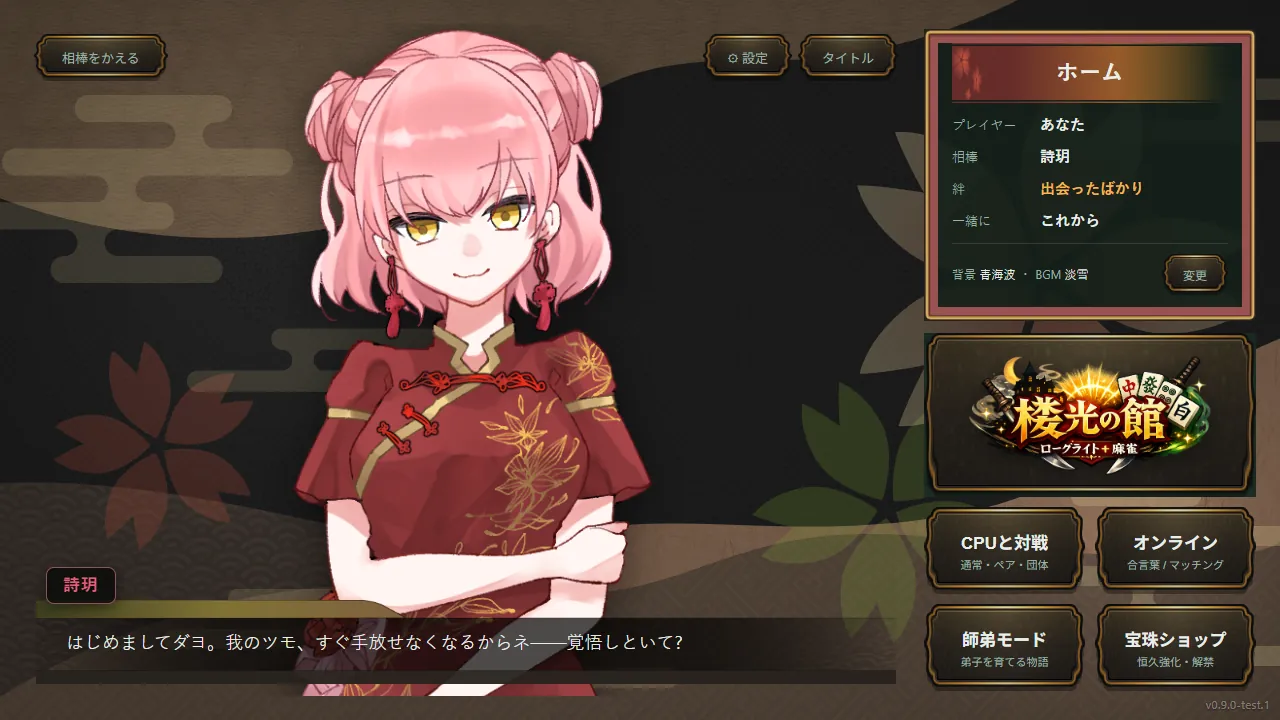
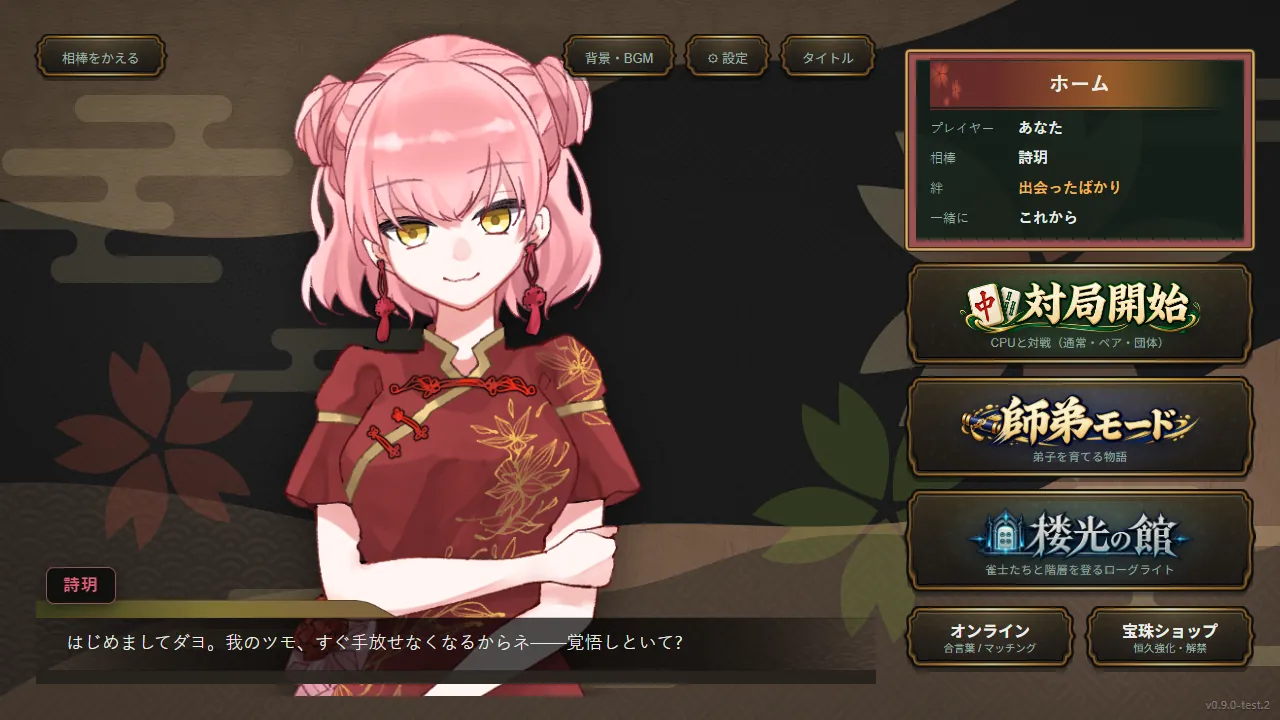
feat(outgame): ホームの遊びの入口を同列に—対局開始・師弟モード・楼光の館を同じ大きさのロゴで並べた
楼光の館だけが大きなロゴで、CPU対戦と師弟モードは2×2の文字ボタンだった。遊びの入口3つを
同じ金縁・同じ大きさの3枚にそろえ、どれが主でも従でもない並びにした。

ホーム（右カラム）
- 対局開始（＝CPUと対戦）→ 師弟モード → 楼光の館 の3枚を縦に。違いはロゴと背後の灯りの色
  （卓の緑・巻物の藍・館の青白）だけ。各ロゴの下に一行説明（「CPUと対戦（通常・ペア・団体）」など）
- オンラインと宝珠ショップは一段小さく下に横並び
- 背景・BGM の切替は情報カードから立ち絵ステージ右上（設定・タイトルの隣）へ。いまの組み合わせは
  ボタンのツールチップに。カードはプレイヤー・相棒・絆・一緒に（＋連勝中）だけになった
- 右カラムを 332→352px に。いちばん情報が多い状態（ログイン・絆ゲージ・連勝中）でも 720px に収まる
- ロゴが読めないときは文字の見出しに戻る（3枚の大きさはそろったまま）。見出しの文字は読み上げ用に残す
- 楼光の館のロゴを差し替え。旧 graphic/ui/roguelite/rokou-logo.png と、使われなくなった
  .menu-btn--logo / .menu-btn-tip / カード内の背景・BGM 行のスタイルを削除。テンプレートの余分な </div> も除去

ロゴ（graphic/ui/modes/、透過・幅960px）は仮素材（AI生成など）。本リリース前の差し替え一覧
（docs/release-blocking-asset-tbd.md）・CREDITS・権利チェックリストに記載し、既知の制限
（ゲーム内の窓口・募集ページ・テストプレイのご案内）にも書き足した。

募集ページ
- 遊びかたの3枚に同じロゴ（press/art/logo-*.webp）。写真の拡大クリックはロゴの上からも通す
- ホームの写真を新しいレイアウトで撮り直し、alt を更新。参加のしかたの「CPUと対戦」を「対局開始」に
- 版数を v0.9.0-test.3 に（appInfo.js の運用どおり）。更新内容に1行追加

確認：各入口・背景BGM・設定・タイトルの遷移（オンラインは従来どおりログイン案内）、ロゴ欠落時の
フォールバック、テスト版の窓口が1画面に収まること、募集ページの 1440px/390px。コンソールエラーなし。

Changed region(s): [[0.2188, 0.0306, 1.0, 0.9778], [0.4375, 0.9472, 0.4688, 0.9778]]

diff --git a/playtest.html b/playtest.html
@@ -255,7 +255,7 @@ img[data-zoom]{ cursor:zoom-in; }
 .mode{ position:relative; display:flex; flex-direction:column; padding:0 0 16px; }
 .mode-shot{ position:relative; aspect-ratio:16/9; overflow:hidden; background:#000; border-bottom:1px solid rgba(212,173,98,.4); }
 .mode-shot img{ width:100%; height:100%; object-fit:cover; }
-.mode-shot .rokou{ position:absolute; right:4%; bottom:6%; width:42%; height:auto; filter:drop-shadow(0 6px 12px #000c); }
+.mode-shot .logo{ position:absolute; right:4%; bottom:6%; width:48%; height:auto; filter:drop-shadow(0 6px 12px #000c); pointer-events:none; }  /* ホームと同じモードのロゴ。写真の拡大クリックは通す */
 .mode h3{ margin:14px 18px 4px; font-family:var(--serif); font-weight:700; font-size:21px; color:#f8ebcf; }
 .mode p{ margin:0 18px; font-size:14.5px; line-height:1.95; color:var(--ink-2); }
 .mode .time{ margin:auto 18px 0; padding-top:12px; font-size:12.5px; color:var(--gold-2); }
@@ -559,7 +559,7 @@ img[data-zoom]{ cursor:zoom-in; }
 </div>
 <div class="k-msg is-still" data-bond-msg><span class="name">詩玥</span><p class="text">さーて、今日も派手にツモってくヨ。ついてきて、ネ？</p><img class="new" src="graphic/ui/sc/new_icon.png" width="32" height="34" alt="この段階から聞ける言葉" hidden /></div>
 <ul class="moments">
-<li><figure style="margin:0"><div class="screen"><img src="press/shot-home.webp" width="1280" height="720" loading="lazy" data-zoom alt="ホームの画面。相棒の詩玥が大きく立ち、「はじめましてダヨ。我のツモ、すぐ手放せなくなるからネ——覚悟しといて?」と話しかけている" /></div><figcaption>ホームで出迎える</figcaption></figure></li>
+<li><figure style="margin:0"><div class="screen"><img src="press/shot-home.webp" width="1280" height="720" loading="lazy" data-zoom alt="ホームの画面。相棒の詩玥が大きく立ち、「はじめましてダヨ。我のツモ、すぐ手放せなくなるからネ——覚悟しといて?」と話しかけている。右には対局開始・師弟モード・楼光の館の入口が同じ大きさで並び、その下にオンラインと宝珠ショップ" /></div><figcaption>ホームで出迎える</figcaption></figure></li>
 <li><figure style="margin:0"><div class="screen"><img src="press/shot-end.webp" width="1280" height="720" loading="lazy" data-zoom alt="対局終了の画面。1位の詩玥が「やった、一番乗りダヨ! ……この景色、いつか見せたかったンだ。」とひと言添えている" /></div><figcaption>対局のあとのひと言</figcaption></figure></li>
 <li><figure style="margin:0"><div class="screen"><img src="press/shot-scenario.webp" width="1280" height="720" loading="lazy" data-zoom alt="紙芝居パートの画面。和室を背景に二人の立ち絵が向かい合い、下部にセリフが表示されている" /></div><figcaption>物語が進む紙芝居</figcaption></figure></li>
 </ul>
@@ -573,19 +573,19 @@ img[data-zoom]{ cursor:zoom-in; }
 <p class="lead">どの遊びも、相棒が待つホームから始まります。</p>
 <ul class="mode-grid">
 <li class="k-panel mode">
-<div class="mode-shot"><img src="press/shot-vs.webp" width="1280" height="720" loading="lazy" data-zoom alt="対局前のVS画面。4人の札が並び、相棒の詩玥が「さーて、今日も派手にツモってくヨ。ついてきて、ネ？」とひと言添えている" /></div>
+<div class="mode-shot"><img src="press/shot-vs.webp" width="1280" height="720" loading="lazy" data-zoom alt="対局前のVS画面。4人の札が並び、相棒の詩玥が「さーて、今日も派手にツモってくヨ。ついてきて、ネ？」とひと言添えている" /><img class="logo" src="press/art/logo-taikyoku.webp" width="560" height="134" loading="lazy" alt="" /></div>
 <h3>CPUと対戦</h3>
 <p>好きなキャラで1局から。4人・3人・2人打ちのほか、2対2のペア戦、3人チームの団体戦も選べます。ホームから2手で卓につけます。</p>
 <p class="time">東風戦1回でおよそ10分</p>
 </li>
 <li class="k-panel mode">
-<div class="mode-shot"><img src="press/shot-shitei.webp" width="1280" height="720" loading="lazy" data-zoom alt="師弟モードの画面。師匠の立ち絵とセリフ、修行コマンド、能力値、点棒＝HPのバーが並んでいる" /></div>
+<div class="mode-shot"><img src="press/shot-shitei.webp" width="1280" height="720" loading="lazy" data-zoom alt="師弟モードの画面。師匠の立ち絵とセリフ、修行コマンド、能力値、点棒＝HPのバーが並んでいる" /><img class="logo" src="press/art/logo-shitei.webp" width="560" height="134" loading="lazy" alt="" /></div>
 <h3>師弟モード</h3>
 <p>自分の雀士を作って師匠に弟子入りし、修行と大会を重ねながら物語を進める育成モードです。</p>
 <p class="time">弟子を作って1ヶ月分でおよそ10分</p>
 </li>
 <li class="k-panel mode">
-<div class="mode-shot"><img src="press/shot-roguelite.webp" width="1280" height="720" loading="lazy" data-zoom alt="楼光の館の画面。第2階で進路を選び、パーティのHPやバフが並んでいる" /><img class="rokou" src="press/art/rokou-logo.webp" width="560" height="274" loading="lazy" alt="" /></div>
+<div class="mode-shot"><img src="press/shot-roguelite.webp" width="1280" height="720" loading="lazy" data-zoom alt="楼光の館の画面。第2階で進路を選び、パーティのHPやバフが並んでいる" /><img class="logo" src="press/art/logo-rokou.webp" width="560" height="139" loading="lazy" alt="" /></div>
 <h3>楼光の館</h3>
 <p>3人パーティで塔を潜るローグライト。強化を引きながら、どこまで登れるかに挑みます。</p>
 <p class="time">数階もぐっておよそ15分</p>
@@ -666,7 +666,7 @@ img[data-zoom]{ cursor:zoom-in; }
 <h2 class="k-plate">参加のしかた</h2>
 <ol class="steps">
 <li><span class="tile"><img src="graphic/tiles/Man1.svg" alt="一" /></span><h3>「テスト版をプレイ」を押す</h3><p>ブラウザでそのまま始まります。インストールもアカウント登録も要りません（推奨は PC の Google Chrome です）。</p></li>
-<li><span class="tile"><img src="graphic/tiles/Man2.svg" alt="二" /></span><h3>好きなだけ遊ぶ</h3><p>クリアする必要はありません。迷ったら、ホームの「CPUと対戦」→「おまかせで即対局」から1局どうぞ。「分からない」「ここでやめたくなった」と感じたら、その時点でもう十分です。</p></li>
+<li><span class="tile"><img src="graphic/tiles/Man2.svg" alt="二" /></span><h3>好きなだけ遊ぶ</h3><p>クリアする必要はありません。迷ったら、ホームの「対局開始」→「おまかせで即対局」から1局どうぞ。「分からない」「ここでやめたくなった」と感じたら、その時点でもう十分です。</p></li>
 <li><span class="tile"><img src="graphic/tiles/Man3.svg" alt="三" /></span><h3>フィードバックフォームに答える</h3><p>回答時間の目安は約3〜5分。Googleへのログインは不要です。ゲーム内の「設定 → テスト版について / 不具合を報告」からも同じフォームを開けます。</p></li>
 </ol>
 <p class="sys-cta"><a class="k-btn is-big" href="index.html" target="_blank" rel="noopener">テスト版をプレイ<small>インストール不要</small></a></p>
@@ -709,7 +709,7 @@ img[data-zoom]{ cursor:zoom-in; }
 <ul>
 <li>一部のキャラクター・師匠は「準備中」の表示です（順に実装しています）。</li>
 <li>楼光の館は第2章まで。その先は「未だ綴られぬ記憶」と表示されます。</li>
-<li>タイトルロゴと楼光の館の一部グラフィックは仮素材です（正式版で差し替えます）。</li>
+<li>タイトルロゴ、ホームの各モードのロゴ、楼光の館の一部グラフィックは仮素材です（正式版で差し替えます）。</li>
 <li>紙芝居の一部の効果音が無音です。立ち絵の表情差分は未対応です。</li>
 <li>対局中のひと言（相手のリーチ・自分のリーチ・大物手への反応）は、いまは詩玥だけです。ほかのキャラクターは身ぶりとエモートで反応します。</li>
 <li>オンライン対戦は限定運用です（合言葉ルームでの対戦を推奨しています）。</li>
@@ -719,8 +719,9 @@ img[data-zoom]{ cursor:zoom-in; }
 </div>
 <div class="k-panel notice-box">
 <h2 class="k-plate">バージョン情報</h2>
-<p class="ver">Test Build v0.9.0-test.2<small>更新日 2026/10/02</small></p>
+<p class="ver">Test Build v0.9.0-test.3<small>更新日 2026/10/02</small></p>
 <ul>
+<li>ホームの遊びの入口（対局開始・師弟モード・楼光の館）を、同じ大きさのロゴで並べました。楼光の館のロゴも新しくなっています。</li>
 <li>対局の卓を「卓を囲む」形に。対戦相手が卓の奥に座り、リーチや和了・放銃に芝居で応えます。</li>
 <li>削られたときの手応えを強化（画面の揺れ・HPバーの残像・残り4分の1で卓の縁が赤く脈打ち、心音が鳴る）。</li>
 <li>相棒が局中も隣で反応（相手のリーチ・自分のリーチ・大物手）。VS画面での対局前のひと言と、対局後の絆の伸び（ログイン時）を追加。</li>

diff --git a/styles.css b/styles.css
@@ -330,18 +330,18 @@ body {
 .bh-charname:empty { display: none; }
 
 /* 右カラム: 情報カード / 導線 / 戻る を縦に積む（スリム＝立ち絵を邪魔しない） */
-.bh-side { flex: 0 0 332px; max-width: 332px; display: flex; flex-direction: column; justify-content: center; gap: 12px; }
+.bh-side { flex: 0 0 352px; max-width: 352px; display: flex; flex-direction: column; justify-content: center; gap: 10px; }
 .bh-card {
-  border: 14px solid transparent;
-  border-image: url("graphic/ui/sc/panel.png") 18 / 14px / 0 stretch; border-radius: 0;
-  background: rgba(20,32,26,.90); padding: 2px 14px 12px;
+  border: 12px solid transparent;
+  border-image: url("graphic/ui/sc/panel.png") 18 / 12px / 0 stretch; border-radius: 0;
+  background: rgba(20,32,26,.90); padding: 0 14px 10px;
 }
 .bh-title {
   border: solid transparent; border-width: 10px 14px;
   border-image: url("graphic/ui/sc/plate.png") 14 18 fill / 10px 14px / 0 stretch;
-  margin: -2px 0 10px; padding: 2px 8px; font-size: 22px; text-align: center; letter-spacing: .04em;
+  margin: -2px 0 6px; padding: 0 8px; font-size: 20px; text-align: center; letter-spacing: .04em;
 }
-.bh-info { display: flex; flex-direction: column; gap: 8px; }
+.bh-info { display: flex; flex-direction: column; gap: 6px; }
 .bh-info-row { display: flex; align-items: baseline; gap: 12px; font-size: 15px; }
 .bh-info-row[hidden] { display: none; } /* hidden属性を .bh-info-row の display:flex に勝たせる */
 .bh-info-k { flex: 0 0 76px; color: var(--muted); font-size: 13px; }
@@ -356,17 +356,7 @@ body {
 .bh-bond-gauge[hidden] { display: none; }
 .bh-bond-fill { height: 100%; width: 0%; background: var(--accent); border-radius: 2px; transition: width .35s ease; }
 .bh-info-v.bh-streak { color: var(--danger); }
-/* 背景・BGM（カード下部に現在値＋「変更」ボタン。変更で一覧モーダル） */
-.bh-amb { display: flex; align-items: center; gap: 8px; margin-top: 10px; padding-top: 10px; border-top: 1px solid rgba(255,255,255,.12); }
-.bh-amb-cur { flex: 1 1 0; min-width: 0; font-size: 12px; color: var(--muted); white-space: nowrap; overflow: hidden; text-overflow: ellipsis; }
-.bh-amb-cur span { color: var(--ink); }
-.bh-amb-dot { color: var(--muted) !important; margin: 0 4px; }
-.bh-amb-btn {
-  flex: 0 0 auto; font-size: 12px; color: var(--muted); background: none; text-align: center;
-  border: 9px solid transparent; border-image: url("graphic/ui/sc/btn.png") 11 15 fill / 8px 12px / 0 stretch;
-  border-radius: 0; padding: 3px 12px; cursor: pointer; transition: .12s; white-space: nowrap;
-}
-.bh-amb-btn:hover { color: var(--accent); border-image-source: url("graphic/ui/sc/btn_hover.png"); }
+/* 背景・BGM の切替は立ち絵ステージ右上の .bh-util（設定の隣）。一覧モーダルは下の .bh-amb-* */
 
 /* 背景・BGM 設定モーダル（picker の金縁パネルを流用）。背景プレビューを見せたいのでスクリムは薄め。 */
 .bh-amb-modal .bh-picker-scrim { background: rgba(0,0,0,.38); }
@@ -405,11 +395,33 @@ body {
 .bh-amb-tile.is-locked, .bh-amb-row.is-locked { opacity: .4; cursor: default; filter: grayscale(.7); }
 .bh-amb-tile.is-locked:hover, .bh-amb-row.is-locked:hover { transform: none; border-image-source: url("graphic/ui/sc/btn.png"); }
 .bh-routes { display: flex; flex-direction: column; gap: 10px; }
-/* 楼光の館の下に、CPU/オンライン/師弟/ショップを2×2（全モードを1手で。固定ステージ720pxに収める）。 */
-.bh-route-grid { display: grid; grid-template-columns: 1fr 1fr; gap: 10px; }
-.menu-btn--duo { flex: 1 1 0; min-width: 0; align-items: center; text-align: center; gap: 2px; padding: 10px 10px; }
-.menu-btn--duo .menu-btn-title { font-size: 17px; }
-.menu-btn--duo .menu-btn-sub { font-size: 11px; white-space: nowrap; }
+/* 遊びの入口3つ（CPU対戦＝ロゴ「対局開始」／師弟モード／楼光の館）は同じ枠・同じ大きさで縦に並べる。
+   どれが主でも従でもない＝同列。枠は共通の金縁ボタン、違いはロゴと背後の灯りの色だけ。 */
+.bh-modes { display: flex; flex-direction: column; gap: 7px; }
+.bh-mode { position: relative; isolation: isolate; overflow: hidden; align-items: center; justify-content: center; text-align: center; gap: 0; padding: 4px 10px 5px; }
+.bh-mode::before {
+  content: ""; position: absolute; inset: 0; z-index: -1; pointer-events: none;
+  background: radial-gradient(58% 95% at 50% 42%, var(--mode-glow), transparent 75%);
+  opacity: .75; transition: opacity .18s ease;
+}
+.bh-mode:hover:not(:disabled)::before { opacity: 1; }
+.bh-mode--taikyoku { --mode-glow: rgba(52, 168, 100, .5); }   /* 卓の緑 */
+.bh-mode--shitei   { --mode-glow: rgba(72, 108, 210, .5); }   /* 巻物の藍 */
+.bh-mode--rokou    { --mode-glow: rgba(86, 196, 232, .42); }  /* 館の青白い灯 */
+.bh-mode-logo {
+  display: block; height: 58px; width: auto; max-width: 100%; object-fit: contain;
+  filter: drop-shadow(0 4px 8px rgba(0,0,0,.55)); transition: transform .14s ease;
+}
+.bh-mode:hover:not(:disabled) .bh-mode-logo { transform: scale(1.04); }
+.bh-mode-sub { font-size: 11.5px; line-height: 1.35; color: var(--muted); letter-spacing: .03em; white-space: nowrap; }
+/* 見出しはロゴが兼ねる（文字は読み上げ用）。ロゴが読めないときだけ文字で出す。 */
+.bh-mode-title { position: absolute; width: 1px; height: 1px; overflow: hidden; clip: rect(0 0 0 0); white-space: nowrap; }
+.bh-mode.no-logo .bh-mode-logo { display: none; }
+.bh-mode.no-logo .bh-mode-title { position: static; width: auto; height: 58px; line-height: 58px; overflow: visible; clip: auto; font-size: 22px; font-weight: 800; }  /* ロゴと同じ高さ＝3枚の大きさはそろったまま */
+.bh-route-grid { display: grid; grid-template-columns: 1fr 1fr; gap: 8px; }
+.menu-btn--duo { flex: 1 1 0; min-width: 0; align-items: center; text-align: center; gap: 0; padding: 4px 8px; }
+.menu-btn--duo .menu-btn-title { font-size: 16px; line-height: 1.3; }
+.menu-btn--duo .menu-btn-sub { font-size: 10.5px; line-height: 1.3; white-space: nowrap; }
 /* 立ち絵ステージ右上の小道具（設定・タイトル）。相棒をかえる(左上)と対にして、導線の列を汚さない。 */
 .bh-util { position: absolute; top: 10px; right: 10px; z-index: 2; display: flex; gap: 6px; }
 .bh-util-btn {
@@ -6332,20 +6344,6 @@ button.primary.danger:hover { color: #ffbcbc; }
 .tb-dmg-stamp.endure { background: #6fe08a; color: #07270f; }
 .rl-go-bond { color: #6fe08a; font-size: 13px; text-align: center; margin: 4px 0; }
 
-/* 対戦ホーム：楼光の館ボタンをロゴ画像に（画像が無ければテキストにフォールバック） */
-.menu-btn--logo { position: relative; align-items: center; justify-content: center; padding: 10px 16px; min-height: 96px; background: radial-gradient(120% 120% at 50% 30%, #21342a 0%, #16221c 100%); overflow: visible; }
-.menu-btn-logo { width: 100%; max-width: 340px; max-height: 120px; object-fit: contain; display: block; filter: drop-shadow(0 4px 10px rgba(0,0,0,.5)); transition: transform .14s ease; }
-.menu-btn--logo:hover:not(:disabled) .menu-btn-logo { transform: scale(1.04); }
-.menu-btn--logo .fallback { display: none; }                 /* 画像表示時はテキスト隠す */
-.menu-btn--logo.no-logo { align-items: flex-start; }
-.menu-btn--logo.no-logo .menu-btn-logo { display: none; }    /* 画像読込失敗時 */
-.menu-btn--logo.no-logo .fallback { display: block; }
-.menu-btn--logo.no-logo .menu-btn-title { font-size: 19px; font-weight: 700; }
-.menu-btn--logo.no-logo .menu-btn-sub { font-size: 13px; color: var(--muted); }
-/* ホバー説明（吹き出し） */
-.menu-btn-tip { position: absolute; bottom: calc(100% + 8px); left: 50%; transform: translateX(-50%) translateY(4px); white-space: nowrap; padding: 6px 12px; background: #14110d; color: var(--ink); border: 1px solid var(--accent, #e8c45d); border-radius: 9px; font-size: 13px; box-shadow: 0 6px 16px rgba(0,0,0,.5); opacity: 0; pointer-events: none; transition: opacity .15s ease, transform .15s ease; z-index: 30; }
-.menu-btn-tip::after { content: ""; position: absolute; top: 100%; left: 50%; transform: translateX(-50%); border: 6px solid transparent; border-top-color: var(--accent, #e8c45d); }
-.menu-btn--logo:hover .menu-btn-tip { opacity: 1; transform: translateX(-50%) translateY(0); }
 
 /* 楼光の館：編成の着卓ライン（戦う2人と控えの境界を明示） */
 .rl-swap-divider { display: flex; align-items: center; justify-content: center; margin: 2px 0; }

diff --git a/src/screens/battleHomeScreen.js b/src/screens/battleHomeScreen.js
@@ -2,6 +2,8 @@
 //
 // タイトル ― ホーム ― CPU対戦 / オンライン / 楼光の館 / 師弟モード / 宝珠ショップ / 設定
 // どのモードへもここから1手で行き、どのモードからもここへ帰ってくる。
+// 遊びの入口（CPU対戦＝ロゴ「対局開始」／師弟モード／楼光の館）は同じ枠・同じ大きさで同列に並べ、
+// オンラインと宝珠ショップは一段小さく下に置く。ロゴは graphic/ui/modes/。
 // 主役は「お気に入りキャラ」の立ち絵＋出迎えセリフ。出入りのたびに相棒の前を通る＝
 // 愛着の蓄積（毎回顔を合わせる）×固有性（あなたを覚えている）×双方向（タップで返る）。
 //
@@ -186,6 +188,7 @@ export async function showBattleHome(container, opts = {}) {
         <div class="bh-portrait-wrap" id="bh-portrait-wrap" title="タップで話しかけられるよ"></div>
         <button type="button" class="bh-change" id="bh-change">相棒をかえる</button>
         <div class="bh-util">
+          <button type="button" class="bh-util-btn" id="bh-amb-edit">背景・BGM</button>
           <button type="button" class="bh-util-btn" id="bh-settings" title="音量・テスト版の窓口">⚙ 設定</button>
           <button type="button" class="bh-util-btn" id="bh-title">タイトル</button>
         </div>
@@ -200,31 +203,32 @@ export async function showBattleHome(container, opts = {}) {
             <div class="bh-info-row"><span class="bh-info-k">一緒に</span><span class="bh-info-v" id="bh-together"></span></div>
             <div class="bh-info-row" id="bh-streak-row" hidden><span class="bh-info-k">連勝中</span><span class="bh-info-v bh-streak" id="bh-streak"></span></div>
           </div>
-          <div class="bh-amb">
-            <div class="bh-amb-cur">背景 <span id="bh-bg-name"></span><span class="bh-amb-dot">・</span>BGM <span id="bh-bgm-name"></span></div>
-            <button type="button" class="bh-amb-btn" id="bh-amb-edit">変更</button>
-          </div>
         </div>
-        <nav class="bh-routes">
-          <button type="button" class="menu-btn menu-btn--logo" id="bh-roguelite" title="雀士たちと階層を登る冒険譚">
-            <img class="menu-btn-logo" src="graphic/ui/roguelite/rokou-logo.png" alt="楼光の館" onerror="this.closest('.menu-btn').classList.add('no-logo')">
-            <span class="menu-btn-title fallback">楼光の館</span>
-            <span class="menu-btn-sub fallback">弟子を連れて階層を登る・撤退と継続の冒険</span>
-            <span class="menu-btn-tip">雀士たちと階層を登る冒険譚</span>
-          </button>
-          <!-- 対局の入口（相棒と打つ）と、育てる/整える入口を2×2で。どれも1手で着く。 -->
-          <div class="bh-route-grid">
-            <button type="button" class="menu-btn menu-btn--duo" id="bh-cpu">
-              <span class="menu-btn-title">CPUと対戦</span>
-              <span class="menu-btn-sub">通常・ペア・団体</span>
+        <nav class="bh-routes" aria-label="あそぶ">
+          <!-- 遊びの入口3つは同じ枠・同じ大きさで並べる（どれが主でも従でもない＝同列）。
+               見出しはロゴが兼ね、文字の見出しは読み上げ用。ロゴが読めないときは .no-logo で文字に戻る。 -->
+          <div class="bh-modes">
+            <button type="button" class="menu-btn bh-mode bh-mode--taikyoku" id="bh-cpu">
+              <img class="bh-mode-logo" src="graphic/ui/modes/taikyoku.webp" alt="" onerror="this.closest('.bh-mode').classList.add('no-logo')">
+              <span class="bh-mode-title">CPUと対戦</span>
+              <span class="bh-mode-sub">CPUと対戦（通常・ペア・団体）</span>
             </button>
+            <button type="button" class="menu-btn bh-mode bh-mode--shitei" id="bh-mentor">
+              <img class="bh-mode-logo" src="graphic/ui/modes/shitei.webp" alt="" onerror="this.closest('.bh-mode').classList.add('no-logo')">
+              <span class="bh-mode-title">師弟モード</span>
+              <span class="bh-mode-sub">弟子を育てる物語</span>
+            </button>
+            <button type="button" class="menu-btn bh-mode bh-mode--rokou" id="bh-roguelite">
+              <img class="bh-mode-logo" src="graphic/ui/modes/rokou.webp" alt="" onerror="this.closest('.bh-mode').classList.add('no-logo')">
+              <span class="bh-mode-title">楼光の館</span>
+              <span class="bh-mode-sub">雀士たちと階層を登るローグライト</span>
+            </button>
+          </div>
+          <!-- 対人とショップは一段小さく横並び。どれも1手で着く。 -->
+          <div class="bh-route-grid">
             <button type="button" class="menu-btn menu-btn--duo" id="bh-online">
               <span class="menu-btn-title">オンライン</span>
               <span class="menu-btn-sub">合言葉 / マッチング</span>
-            </button>
-            <button type="button" class="menu-btn menu-btn--duo" id="bh-mentor">
-              <span class="menu-btn-title">師弟モード</span>
-              <span class="menu-btn-sub">弟子を育てる物語</span>
             </button>
             <button type="button" class="menu-btn menu-btn--duo" id="bh-shop" title="宝珠で恒久強化・背景やBGMを解禁">
               <span class="menu-btn-title">宝珠ショップ</span>
@@ -232,7 +236,6 @@ export async function showBattleHome(container, opts = {}) {
             </button>
           </div>
         </nav>
-      </div>
       </div>
     </div>`;
 
@@ -246,8 +249,10 @@ export async function showBattleHome(container, opts = {}) {
   const setTalk = (t) => { if (talkEl) talkEl.textContent = t || "……。"; };
   const nameplateEl = container.querySelector("#bh-charname");
 
-  const bgNameEl = container.querySelector("#bh-bg-name");
-  const bgmNameEl = container.querySelector("#bh-bgm-name");
+  // 背景・BGM の切替は立ち絵ステージ右上（設定の隣）。いまの組み合わせはボタンのツールチップで見せる。
+  const ambBtn = container.querySelector("#bh-amb-edit");
+  let bgLabel = "", bgmLabel = "";
+  const syncAmbTitle = () => { if (ambBtn) ambBtn.title = `背景：${bgLabel}／BGM：${bgmLabel}`; };
 
   // キャラ非依存の情報は一度だけ。
   container.querySelector("#bh-name").textContent = displayName;
@@ -266,11 +271,13 @@ export async function showBattleHome(container, opts = {}) {
     } else {
       container.style.backgroundImage = "";
     }
-    if (bgNameEl) bgNameEl.textContent = c.label;
+    bgLabel = c.label;
+    syncAmbTitle();
   }
   function applyBgm(key, { play = false } = {}) {
     const c = HOME_BGM_CHOICES.find((x) => x.key === key) || HOME_BGM_CHOICES[0];
-    if (bgmNameEl) bgmNameEl.textContent = c.label;
+    bgmLabel = c.label;
+    syncAmbTitle();
     if (play) audio?.playHomeBgmByKey?.(c.key);
   }
   applyBg(bgKey);
@@ -337,7 +344,7 @@ export async function showBattleHome(container, opts = {}) {
   container.querySelector("#bh-title")?.addEventListener("click", () => onTitle?.());
 
   // 背景・BGM の「変更」→ 一覧モーダル（選択中ハイライト／将来は解禁状態も表示）。
-  container.querySelector("#bh-amb-edit")?.addEventListener("click", () => {
+  ambBtn?.addEventListener("click", () => {
     openAmbiance(container, {
       profile, bgKey, bgmKey,
       onPickBg: (key) => { bgKey = key; applyBg(key); persist({ homeBg: key }); },

diff --git a/src/config/appInfo.js b/src/config/appInfo.js
@@ -6,7 +6,7 @@
 //
 //   import { APP_VERSION, versionLabel } from "./config/appInfo.js";
 
-export const APP_VERSION = "0.9.0-test.2";
+export const APP_VERSION = "0.9.0-test.3";
 export const BUILD_DATE = "2026-10-02";
 
 // 不具合・感想の受け皿（Googleフォーム / Discord 招待 / GitHub Issues など）。
@@ -23,7 +23,7 @@ export const FEEDBACK_LABEL = "報告フォームを開く";
 export const KNOWN_LIMITS = [
   "一部のキャラ・師匠は「準備中」表示です（順に実装中）。",
   "楼光の館は第2章まで。その先は「未だ綴られぬ記憶」と出ます。",
-  "タイトルロゴと楼光の館の一部グラフィックは仮素材（差し替え予定）。",
+  "ロゴ類と楼光の館の一部グラフィックは仮素材（差し替え予定）。",
   "オンライン対戦は限定運用です（合言葉ルームでの対戦を推奨）。",
 ];
 

diff --git a/docs/release-blocking-asset-tbd.md b/docs/release-blocking-asset-tbd.md
@@ -19,11 +19,24 @@
 - **状態**: 章背景・UI装飾などにAI生成の仮素材を使用（正式アート未発注）。
 - **差し替え**: デザイナー版の背景・アイコン・装飾へ置換。差し替え時に本ドキュメントを更新。
 
+### 3. モードのロゴ（対局開始／師弟モード／楼光の館）
+- **ファイル**: `graphic/ui/modes/taikyoku.webp`・`shitei.webp`・`rokou.webp`（透過・幅960px）
+  ＋ 募集ページ用の縮小コピー `press/art/logo-taikyoku.webp`・`logo-shitei.webp`・`logo-rokou.webp`（幅560px）
+- **状態**: AI生成などの仮素材（2026-10-02 に旧・楼光の館ロゴから差し替え。旧ファイルは削除済み）。
+- **使用箇所**:
+  - ホームの遊びの入口3枚（`src/screens/battleHomeScreen.js` の `#bh-cpu` / `#bh-mentor` / `#bh-roguelite`）
+  - 募集ページ `playtest.html` の「遊びかた」の3枚
+- **UI上の注記**: 画面上の注記は無し（楼光の館の仮グラフィックと同じ扱い）。既知の制限
+  （ゲーム内の窓口 `KNOWN_LIMITS`・募集ページ・テストプレイのご案内）に記載。
+- **差し替え手順**: 同名ファイルを上書きすればレイアウトは維持される（ロゴの高さは `.bh-mode-logo` の 58px、
+  横長 4:1 前後を想定）。募集ページ用の縮小コピーも書き出し直すこと。
+
 ## リリース前チェックリスト
 - [ ] `graphic/title.png` をデザイナー版へ差し替え
 - [ ] ロード画面・ホームの `.placeholder-note` 注記を削除
 - [x] ~~対局中BGM 2曲（Suno生成）を差し替え~~ → **2026-09-10 完了**（甘茶の音楽工房「桜雲」「打ち上げ花火」）
 - [ ] 楼光の館の仮グラフィックをデザイナー版へ差し替え
+- [ ] モードのロゴ3点（対局開始／師弟モード／楼光の館）をデザイナー版へ差し替え（募集ページ用の縮小コピーも）
 - [ ] 本ファイルを「差し替え完了」に更新 or 削除
 
 > 権利まわりの確認事項全体は [rights-clearance-checklist.md](rights-clearance-checklist.md) を参照。

diff --git a/docs/testplay-guide.md b/docs/testplay-guide.md
@@ -31,7 +31,7 @@
 
 ### まずはここ（30分コース）
 1. **ホーム**（タイトルの「はじめる」の先）… 相棒が出迎えてくれます。立ち絵をタップすると話しかけられます
-2. **CPUと対戦 → 🎲 おまかせで即対局** … 東風戦を1回打ってみる
+2. **対局開始（CPUと対戦） → 🎲 おまかせで即対局** … 東風戦を1回打ってみる
 3. 打ちながら、**右上のHPボード**と、**卓の右で身を乗り出す相棒**（ひと言・反応）を気にしてみてください。卓の奥に座る対戦相手の反応も
 4. 対局が終わったら **ホームへ戻る** … 何か変わっていますか？
 
@@ -57,7 +57,7 @@
 - **楼光の館は第2章まで**。その先は「未だ綴られぬ記憶」と出ます
 - 紙芝居の一部SEが無音・**立ち絵の表情差分は未対応**です
 - 対局中のひと言（相手のリーチ・自分のリーチ・大物手への反応）は **いまは詩玥だけ**。ほかのキャラは身ぶりとエモートで反応します
-- **タイトルロゴと楼光の館の一部グラフィックは仮素材**（正式版に差し替え予定）
+- **タイトルロゴ・ホームの各モードのロゴ・楼光の館の一部グラフィックは仮素材**（正式版に差し替え予定）
 - **オンライン対戦は限定運用**です（合言葉ルームでの対戦を推奨）
 - スマートフォンは横向き推奨。縦のままだと画面が回転して表示されます
 

diff --git a/CREDITS.md b/CREDITS.md
@@ -134,6 +134,7 @@
 | モブ（シルエット） | `graphic/chars/mobs/` | **素材屋冬青 氏**「★随時追加★ 素材【人物シルエット】」（BOOTH: https://awamurasoyogo.booth.pm/items/3435946 ）。商用可・改変可（原型を留めなくても可）・**クレジット表記は任意**・素材としての二次配布/販売は不可 |
 | 背景 | `graphic/bg/` | **みんちりえ**（`sc/` のほとんど＋`bg-dojo`/`bg-street`）＋ げーむまてりあるず（雀荘4種・上記）＋ くらげ／BOOTH（`bg-dungeon`） |
 | 表情・エモート | `graphic/emo/` | **こぱんだ屋（空想曲線）** — UI一式と同じ配布元。規約は下記「こぱんだ屋」節に従う。※無料素材はクレジット必須・有料素材は不要だが、**本ファイルとゲーム内ロールの両方に掲載しているのでどちらでも要件を満たす** |
+| モードのロゴ（対局開始／師弟モード／楼光の館） | `graphic/ui/modes/`（ホームの入口）・`press/art/logo-*.webp`（募集ページ） | **仮素材（AI生成など）**。本リリース前にデザイナー版へ差し替え必須（[release-blocking-asset-tbd.md](docs/release-blocking-asset-tbd.md)）。2026-10-02 に旧・楼光の館ロゴ `graphic/ui/roguelite/rokou-logo.png` から差し替え |
 
 ### 立ち絵のクレジット表記（必須）
 

diff --git a/docs/rights-clearance-checklist.md b/docs/rights-clearance-checklist.md
@@ -173,5 +173,5 @@
 
 1. **公開前**: GitHub Pro 加入 → リポジトリ private 化 → Pages が生きているか確認
 2. **随時**: ★K（r-id の購入商品の特定）— 表記要件は既に満たしているので急ぎではない
-3. **本リリース前**: タイトルロゴ・楼光の仮グラフィックを差し替え（[release-blocking-asset-tbd.md](release-blocking-asset-tbd.md)）
+3. **本リリース前**: タイトルロゴ・モードのロゴ・楼光の仮グラフィックを差し替え（[release-blocking-asset-tbd.md](release-blocking-asset-tbd.md)）
 4. **有料化を考えるとき**: PeriTune のデータ同梱（非営利限定）について、問い合わせ／暗号化／差し替えのいずれかを判断
